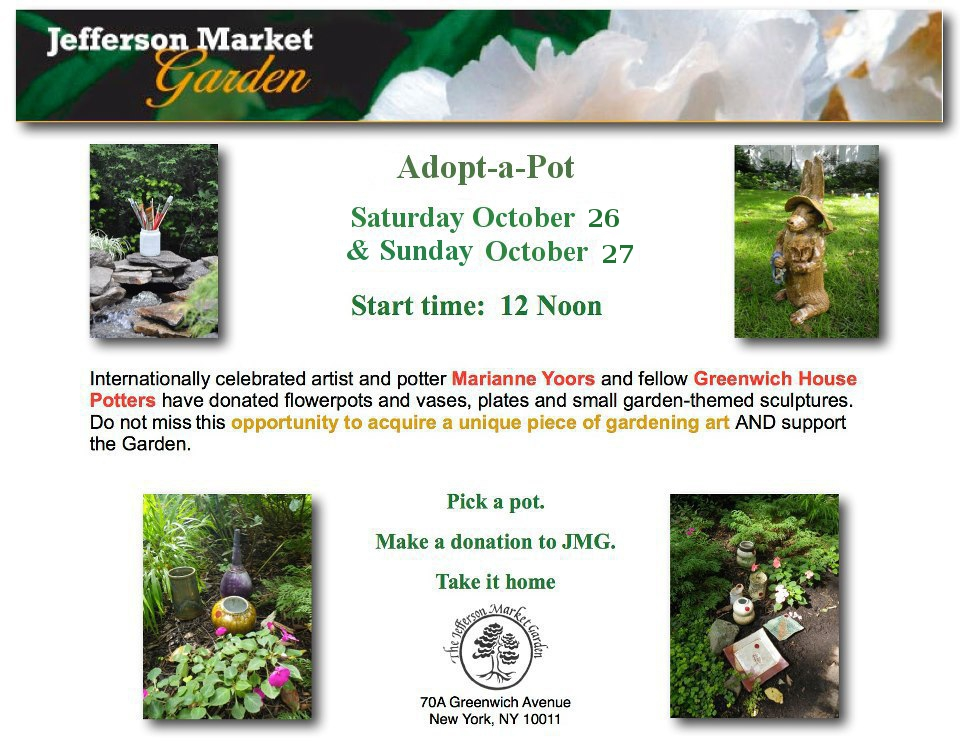
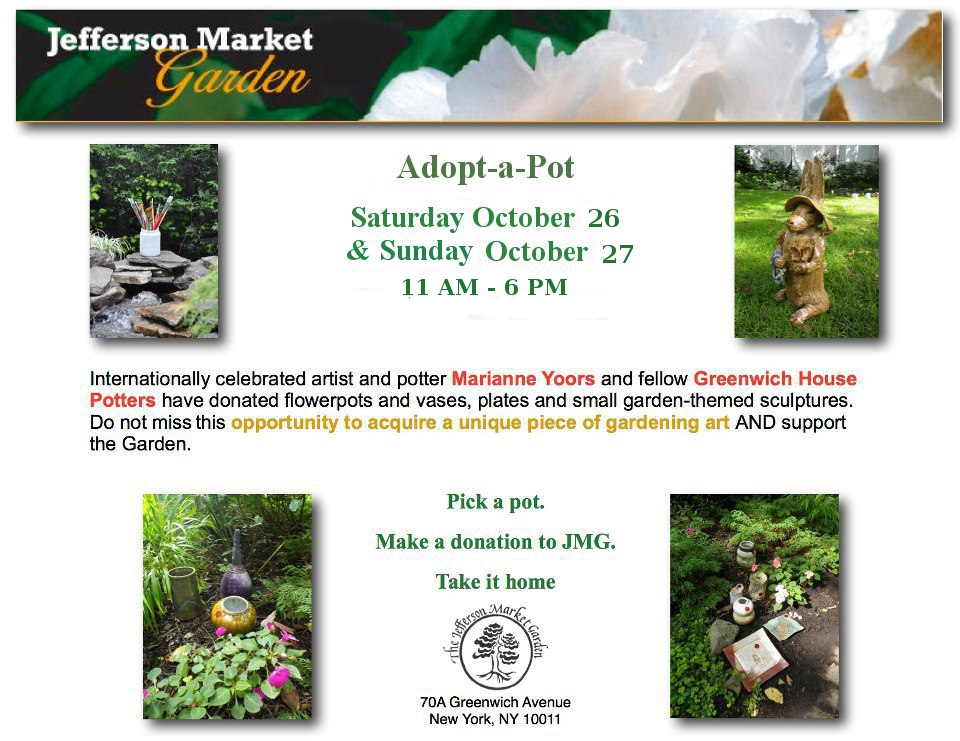
adopt

Changed region(s): [[0.3438, 0.3725, 0.625, 0.4345]]

diff --git a/index.html b/index.html
@@ -406,7 +406,7 @@ height:110px;" allowTransparency="true"></iframe>
                           <p> <img src="Images/pumpkinhead-HOME.jpg" alt="pumpkin" width="136" height="144"></p>
 
 <p><strong> <span class="style8"><a href="Images/adoptapot.jpg"  >Oct. 26-27: Adopt-a-Pot</a><br> </a></span></strong> 
-                          Starts at noon</p>
+                          11am-6pm</p>
 
 
 
